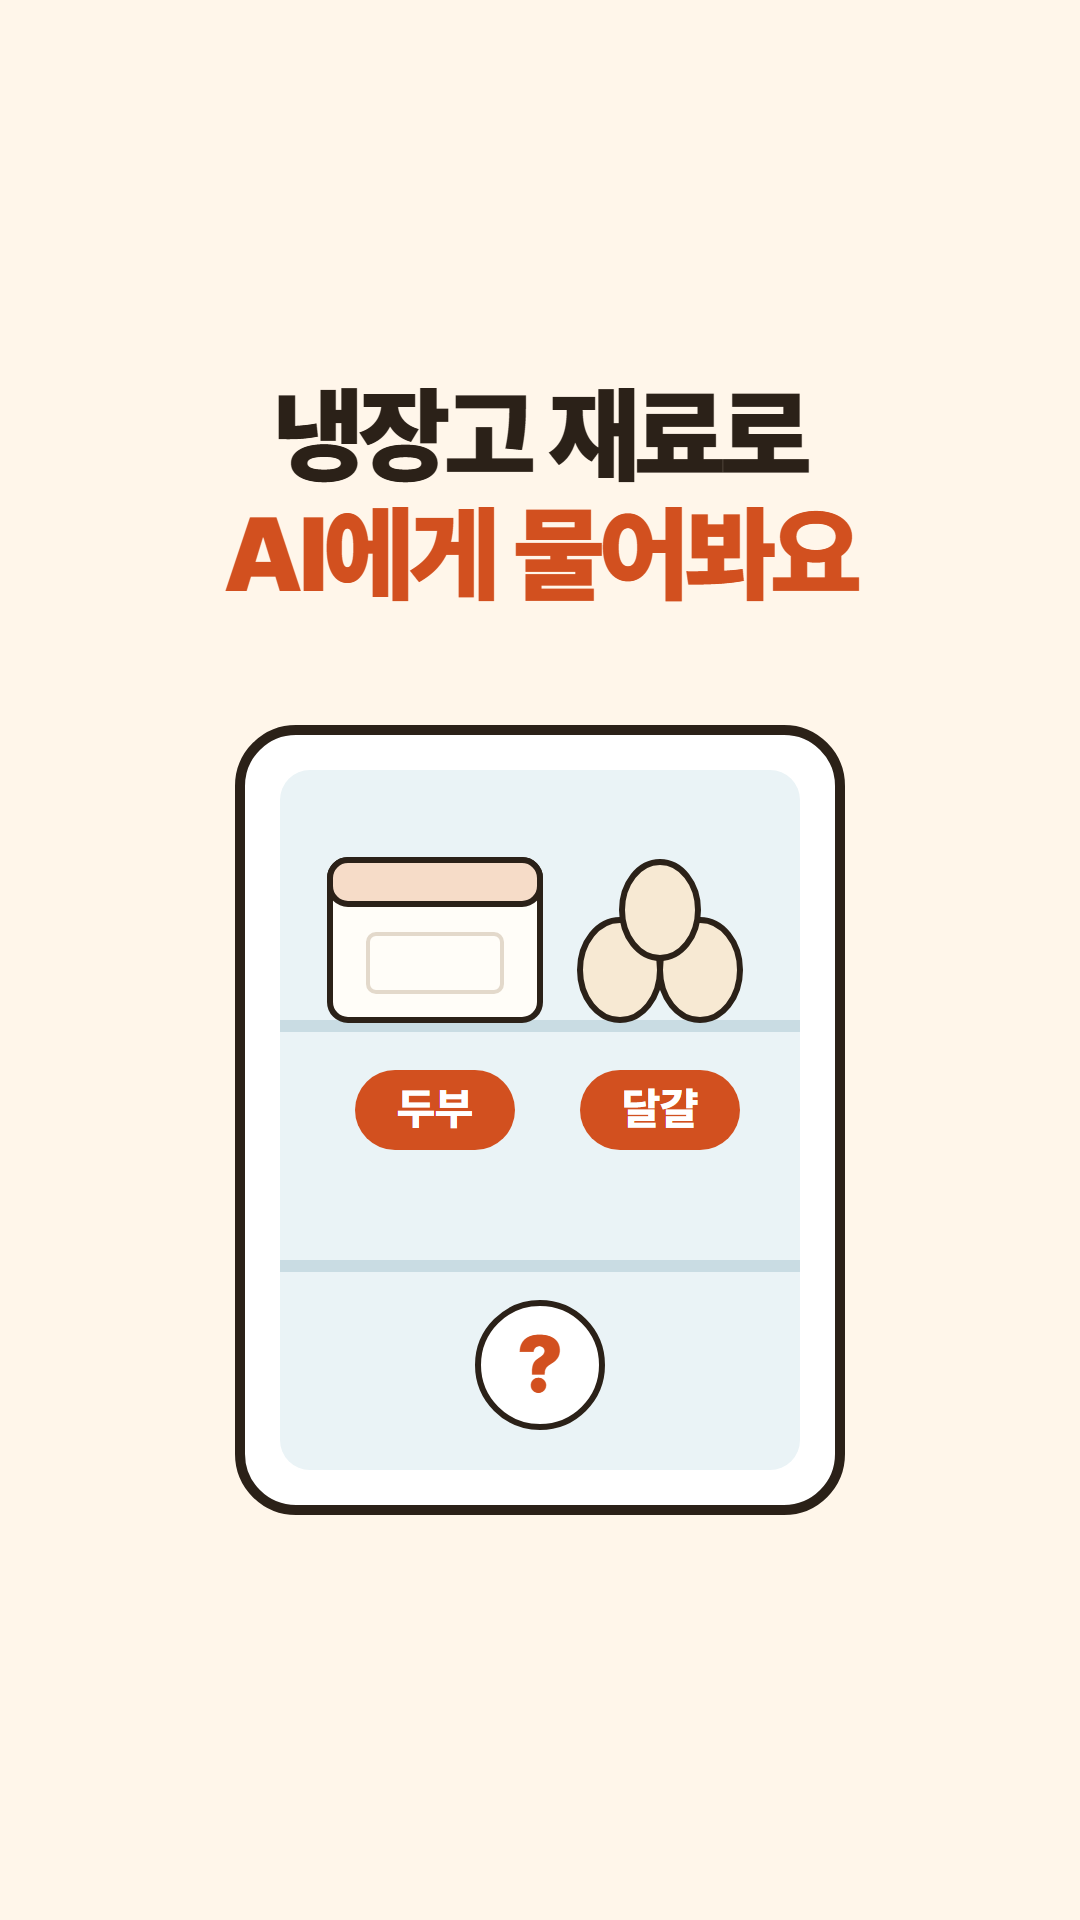
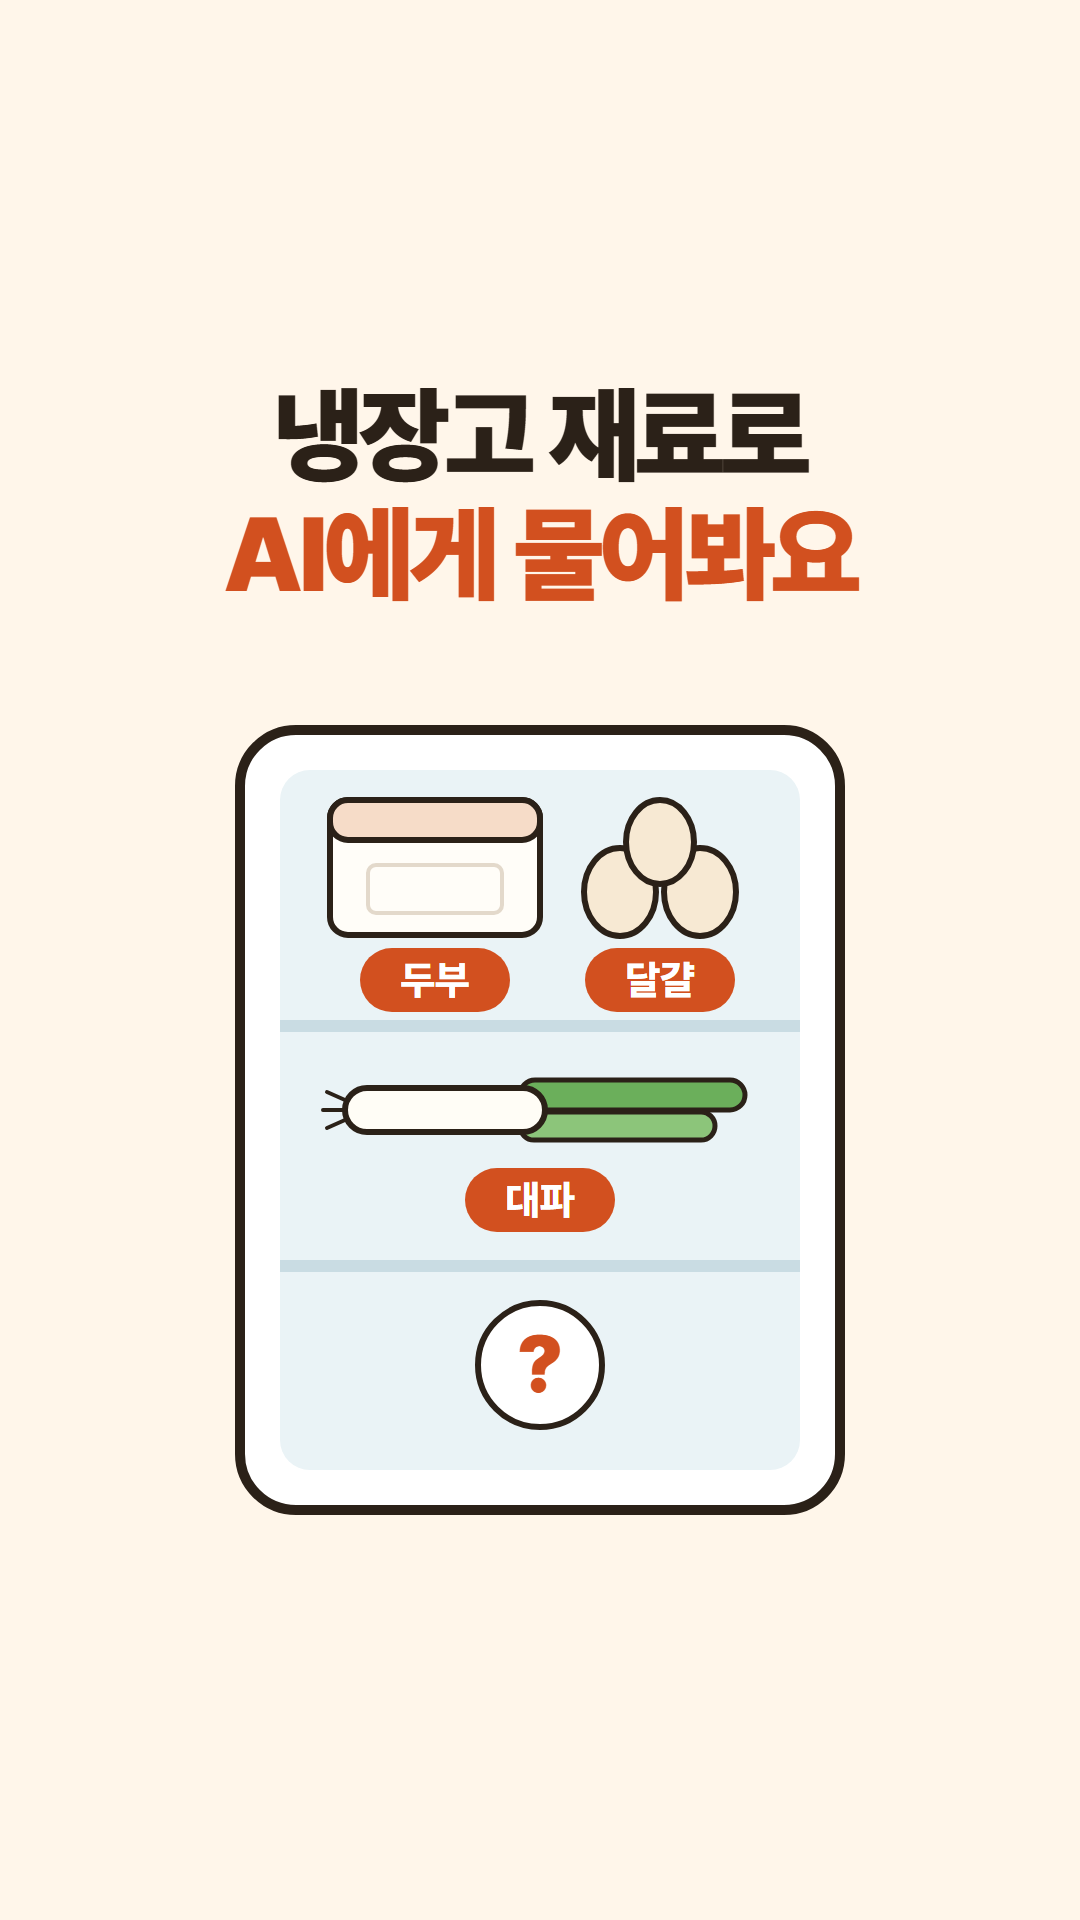
쇼츠: 질문에 대파 추가 (냉장고 그림·4·6·7장·대본 맞춤)

Changed region(s): [[0.3056, 0.4062, 0.7028, 0.6562]]

diff --git a/shorts/2026-10-22-AI처음쓰기-냉장고요리/scenes.html b/shorts/2026-10-22-AI처음쓰기-냉장고요리/scenes.html
@@ -107,18 +107,25 @@
     <rect x="60" y="300" width="520" height="12" fill="#C9DCE3"/>
     <rect x="60" y="540" width="520" height="12" fill="#C9DCE3"/>
     <!-- 두부 -->
-    <rect x="110" y="140" width="210" height="160" rx="18" fill="#FFFDF8" stroke="#2B2118" stroke-width="6"/>
-    <rect x="110" y="140" width="210" height="44" rx="18" fill="#F6DCC8" stroke="#2B2118" stroke-width="6"/>
-    <rect x="148" y="214" width="134" height="58" rx="8" fill="none" stroke="#E3D9CB" stroke-width="4"/>
+    <rect x="110" y="80" width="210" height="135" rx="18" fill="#FFFDF8" stroke="#2B2118" stroke-width="6"/>
+    <rect x="110" y="80" width="210" height="40" rx="18" fill="#F6DCC8" stroke="#2B2118" stroke-width="6"/>
+    <rect x="148" y="145" width="134" height="48" rx="8" fill="none" stroke="#E3D9CB" stroke-width="4"/>
     <!-- 달걀 -->
-    <ellipse cx="400" cy="250" rx="40" ry="50" fill="#F7E9D3" stroke="#2B2118" stroke-width="6"/>
-    <ellipse cx="480" cy="250" rx="40" ry="50" fill="#F7E9D3" stroke="#2B2118" stroke-width="6"/>
-    <ellipse cx="440" cy="190" rx="38" ry="48" fill="#F7E9D3" stroke="#2B2118" stroke-width="6"/>
+    <ellipse cx="400" cy="172" rx="36" ry="44" fill="#F7E9D3" stroke="#2B2118" stroke-width="6"/>
+    <ellipse cx="480" cy="172" rx="36" ry="44" fill="#F7E9D3" stroke="#2B2118" stroke-width="6"/>
+    <ellipse cx="440" cy="122" rx="34" ry="42" fill="#F7E9D3" stroke="#2B2118" stroke-width="6"/>
     <!-- 이름표 -->
-    <rect x="135" y="350" width="160" height="80" rx="40" fill="#D2501F"/>
-    <text x="215" y="404" text-anchor="middle" font-size="44" font-weight="800" fill="#fff">두부</text>
-    <rect x="360" y="350" width="160" height="80" rx="40" fill="#D2501F"/>
-    <text x="440" y="404" text-anchor="middle" font-size="44" font-weight="800" fill="#fff">달걀</text>
+    <rect x="140" y="228" width="150" height="64" rx="32" fill="#D2501F"/>
+    <text x="215" y="274" text-anchor="middle" font-size="40" font-weight="800" fill="#fff">두부</text>
+    <rect x="365" y="228" width="150" height="64" rx="32" fill="#D2501F"/>
+    <text x="440" y="274" text-anchor="middle" font-size="40" font-weight="800" fill="#fff">달걀</text>
+    <!-- 대파 -->
+    <rect x="300" y="360" width="225" height="30" rx="15" fill="#6BAF5B" stroke="#2B2118" stroke-width="5"/>
+    <rect x="300" y="392" width="195" height="28" rx="14" fill="#8CC57A" stroke="#2B2118" stroke-width="5"/>
+    <rect x="125" y="368" width="200" height="44" rx="22" fill="#FFFDF6" stroke="#2B2118" stroke-width="6"/>
+    <path d="M125 380l-18-8M125 390h-22M125 400l-18 8" stroke="#2B2118" stroke-width="4" stroke-linecap="round"/>
+    <rect x="245" y="448" width="150" height="64" rx="32" fill="#D2501F"/>
+    <text x="320" y="494" text-anchor="middle" font-size="40" font-weight="800" fill="#fff">대파</text>
     <!-- 아래 칸 물음표 -->
     <circle cx="320" cy="645" r="62" fill="#fff" stroke="#2B2118" stroke-width="6"/>
     <text x="320" y="672" text-anchor="middle" font-size="80" font-weight="900" fill="#D2501F">?</text>
@@ -176,7 +183,7 @@
     <div class="chat"></div>
     <div class="inputbar">
       <div class="plus">+</div>
-      <div class="txt typed">냉장고에 두부랑 달걀이 있어. 간단한 요리 레시피 알려줘</div>
+      <div class="txt typed">냉장고에 두부랑 달걀, 대파가 있어. 간단한 요리 레시피 알려줘</div>
       <div class="send"><svg width="34" height="34" viewBox="0 0 34 34"><path d="M17 29V6M7 15l10-10 10 10" fill="none" stroke="#fff" stroke-width="5" stroke-linecap="round" stroke-linejoin="round"/></svg></div>
     </div>
     <div class="kbd"><i></i><i></i><i></i><i></i><i></i><i></i><i></i><i></i><i></i><i></i><i></i><i></i><i></i><i></i><i></i><i></i><i></i><i></i><i></i><i></i><i></i><i></i><i></i><i></i><i></i><i></i><i></i><i></i><i></i><i></i><i class="m"></i><i class="w"></i><i class="m"></i></div>
@@ -209,7 +216,7 @@
     <div class="chat"></div>
     <div class="inputbar">
       <div class="plus">+</div>
-      <div class="txt typed">냉장고에 두부랑 달걀이 있어. 간단한 요리 레시피 알려줘</div>
+      <div class="txt typed">냉장고에 두부랑 달걀, 대파가 있어. 간단한 요리 레시피 알려줘</div>
       <div class="send hit"><svg width="34" height="34" viewBox="0 0 34 34"><path d="M17 29V6M7 15l10-10 10 10" fill="none" stroke="#fff" stroke-width="5" stroke-linecap="round" stroke-linejoin="round"/></svg></div>
     </div>
     <div class="kbd"><i></i><i></i><i></i><i></i><i></i><i></i><i></i><i></i><i></i><i></i><i></i><i></i><i></i><i></i><i></i><i></i><i></i><i></i><i></i><i></i><i></i><i></i><i></i><i></i><i></i><i></i><i></i><i></i><i></i><i></i><i class="m"></i><i class="w"></i><i class="m"></i></div>
@@ -223,7 +230,7 @@
     <div class="notch"></div>
     <div class="top">ChatGPT</div>
     <div class="chat">
-      <div class="me">냉장고에 두부랑 달걀이 있어. 간단한 요리 레시피 알려줘</div>
+      <div class="me">냉장고에 두부랑 달걀, 대파가 있어. 간단한 요리 레시피 알려줘</div>
       <div class="reply">
         <p>냉장고에 달걀, 두부, 대파만 있어도 맛있는 반찬을 만들 수 있어요.</p>
         <h3>1. 두부 달걀전</h3>

diff --git a/shorts/2026-10-22-AI처음쓰기-냉장고요리.md b/shorts/2026-10-22-AI처음쓰기-냉장고요리.md
@@ -11,10 +11,10 @@
 
 | 장면 | 시간 | 화면 자막 | 내레이션 | 화면 모습 |
 |---|---|---|---|---|
-| 1 | 0~5초 | 냉장고 재료로<br>AI에게 물어봐요 | 냉장고에 있는 재료로 뭘 해 먹을지, AI에게 물어볼까요? | 냉장고 문이 열리고 두부·달걀 그림. 시작 장면 |
+| 1 | 0~5초 | 냉장고 재료로<br>AI에게 물어봐요 | 냉장고에 있는 재료로 뭘 해 먹을지, AI에게 물어볼까요? | 냉장고 문이 열리고 두부·달걀·대파 그림. 시작 장면 |
 | 2 | 5~10초 | 1단계<br>챗GPT 앱 열기 | 1단계. 휴대폰에서 챗GPT 앱을 눌러 여세요. | 휴대폰 첫 화면. 챗GPT 앱 아이콘에 동그라미, 손가락이 톡 |
 | 3 | 10~15초 | 2단계<br>아래 칸 누르기 | 2단계. 화면 아래, 질문 쓰는 칸을 누르세요. | 대화 화면. 아래쪽 입력 칸에 동그라미, 키보드가 올라옴 |
-| 4 | 15~23초 | 이렇게<br>써 보세요 | 이렇게 써 보세요. 냉장고에 두부랑 달걀이 있어. 간단한 요리 레시피 알려줘. | 시연: 입력 칸에 글자가 하나씩 써짐 「냉장고에 두부랑 달걀이 있어. 간단한 요리 레시피 알려줘」 |
+| 4 | 15~23초 | 이렇게<br>써 보세요 | 이렇게 써 보세요. 냉장고에 두부랑 달걀, 대파가 있어. 간단한 요리 레시피 알려줘. | 시연: 입력 칸에 글자가 하나씩 써짐 「냉장고에 두부랑 달걀, 대파가 있어. 간단한 요리 레시피 알려줘」 |
 | 5 | 23~28초 | 글쓰기 어려우면<br>마이크로 말해요 | 글쓰기가 어려우면 마이크 표시를 누르고 말로 하셔도 돼요. | 입력 칸 옆 마이크 표시에 동그라미 |
 | 6 | 28~32초 | 3단계<br>화살표 눌러 보내기 | 3단계. 오른쪽 화살표를 눌러 보내세요. | 보내기(화살표) 버튼에 동그라미, 손가락이 톡 |
 | 7 | 32~40초 | 4단계<br>답이 나와요 | 4단계. 잠시 기다리면 이렇게 요리법이 나와요. | 실제 받은 답이 나타나 천천히 위로 올라감: 「1. 두부 달걀전 · 조리시간 10분 · 2인분 · 재료: 두부 1/2모, 달걀 2개, 대파 조금…」 |
